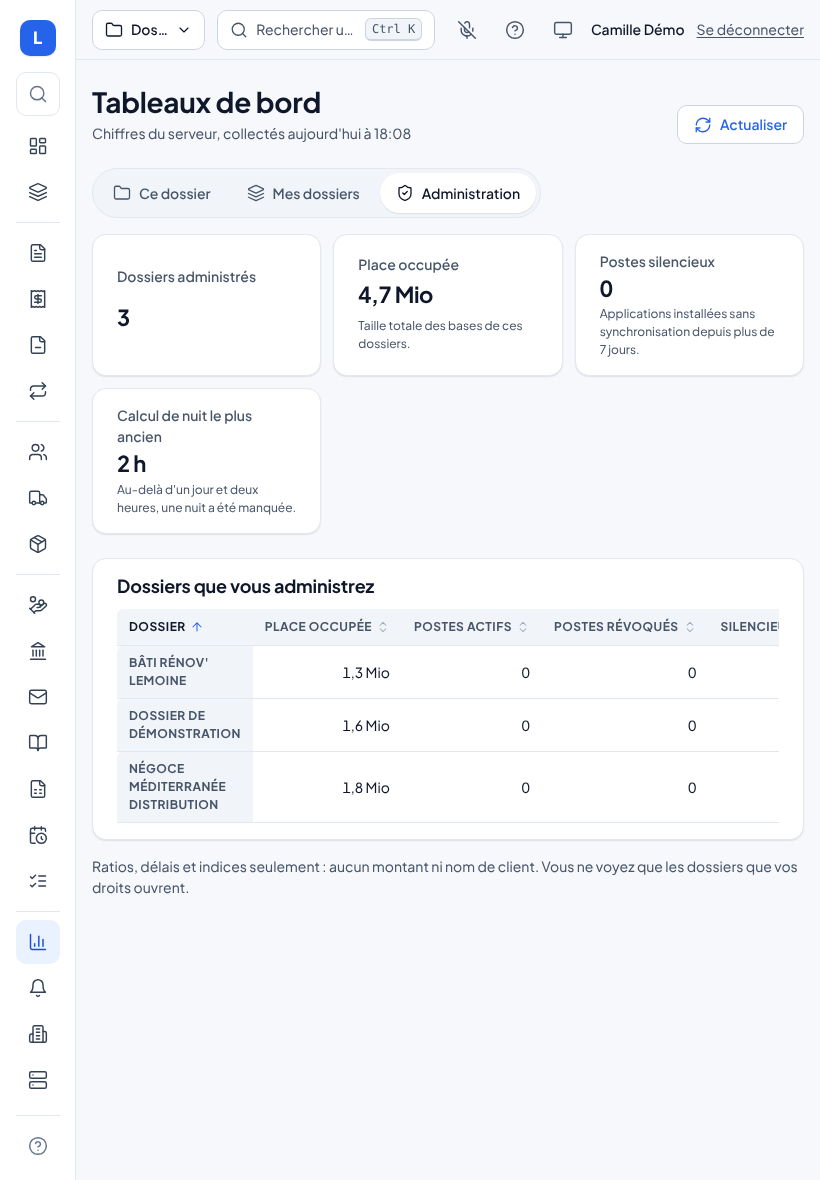
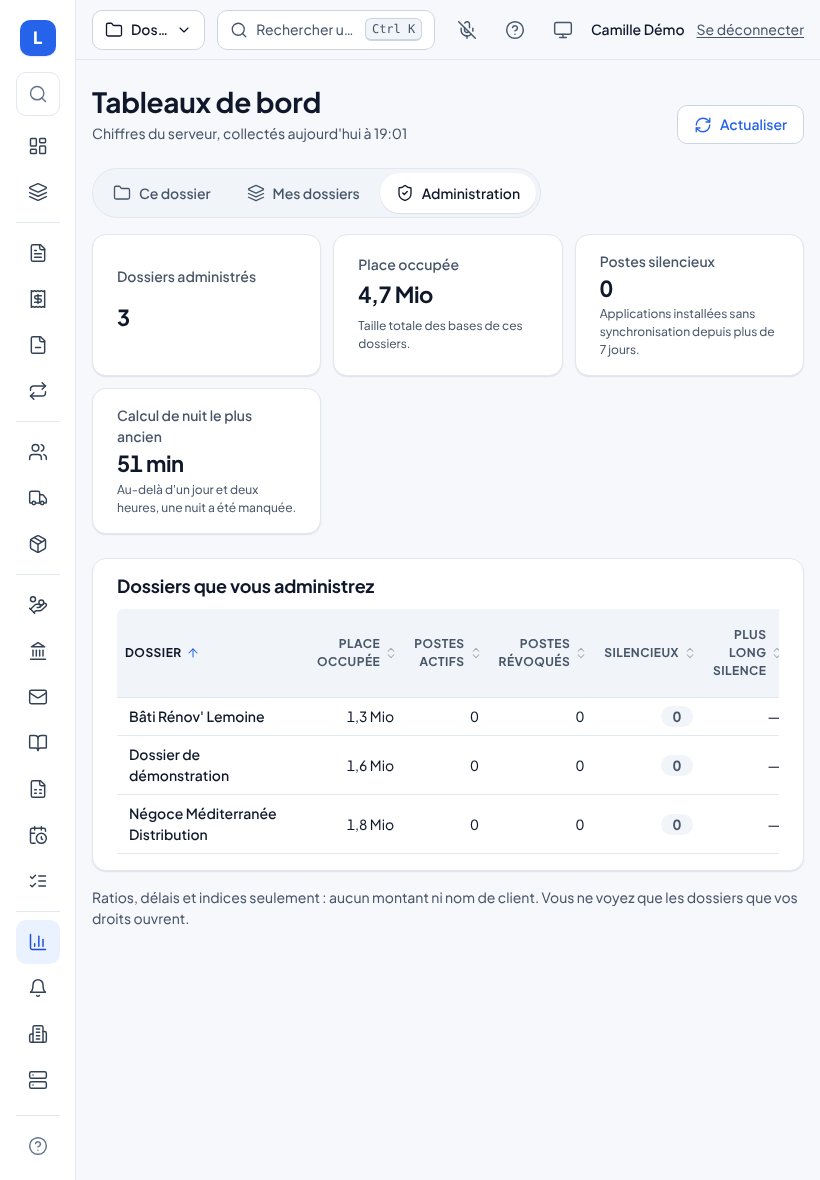
Tableaux de bord : « Voir » visible sur ordinateur, noms de dossier en texte courant
Sur « Mes dossiers » à 1440 px, le tableau dépassait son cadre et coupait « Voir » ;
les noms (en-têtes de ligne) prenaient le style des en-têtes de colonnes. Signalé
par le fil Vue cabinet.

Claude-Session: https://claude.ai/code/session_0195ENUxDgLz9ctjxd3HeSJj

diff --git a/src/Presentation/Lettra.UI.Shared/wwwroot/lettra-pilotage.css b/src/Presentation/Lettra.UI.Shared/wwwroot/lettra-pilotage.css
@@ -29,7 +29,8 @@
 .lt-pilotage-todo a { display: grid; grid-template-columns: auto minmax(0, 1fr) auto; align-items: center; gap: var(--space-3); min-height: var(--hit); padding: var(--space-2); margin: 0 calc(-1 * var(--space-2)); border-radius: var(--radius-sm); color: var(--color-fg); text-decoration: none; overflow-wrap: anywhere; }
 .lt-pilotage-todo a:hover { background: var(--color-neutral-bg); }
 
-.lt-pilotage-table td:first-child { overflow-wrap: anywhere; }
+/* Le nom du dossier est l'en-tête de sa ligne : texte courant, pas le style des en-têtes de colonnes. */
+.lt-pilotage-table tbody th[scope="row"] { background: transparent; color: var(--color-fg); font-size: var(--text-sm); font-weight: var(--weight-medium); letter-spacing: normal; text-transform: none; text-align: left; overflow-wrap: anywhere; }
 .lt-pilotage-filters { flex-wrap: wrap; gap: var(--space-3); }
 .lt-pilotage-tools { display: flex; flex-wrap: wrap; align-items: center; gap: var(--space-2); width: 100%; }
 .lt-pilotage-tools .lettra-input { width: 100%; }
@@ -40,7 +41,10 @@
     .lt-kpis.lt-pilotage-kpis { grid-template-columns: repeat(auto-fit, minmax(12rem, 1fr)); gap: var(--space-3); }
     .lt-pilotage-chart { gap: var(--space-2); height: 12rem; }
     .lt-pilotage-chart .lt-bar-value { display: block; font-size: 0.625rem; }
-    .lt-pilotage-table td:first-child { min-width: 16ch; }
+    /* En-têtes sur deux lignes au besoin : le tableau tient dans son cadre, « Voir » compris. */
+    .lettra-table.lt-pilotage-table th { white-space: normal; }
+    .lettra-table.lt-pilotage-table thead .lt-sort { padding-inline: var(--space-2); }
+    .lt-pilotage-table tbody th[scope="row"] { min-width: 12rem; }
     .lt-pilotage-tools { width: auto; }
     .lt-pilotage-tools .lettra-input { width: min(18rem, 100%); }
     .lt-pilotage-actions { white-space: nowrap; }

diff --git a/docs/tableaux-de-bord.md b/docs/tableaux-de-bord.md
@@ -44,7 +44,7 @@ garde les indicateurs de gestion de ses propres dossiers.
 
 | Taille | Rendu |
 |---|---|
-| Ordinateur (≥ 1200 px) | indicateurs en grille, les deux graphiques côte à côte, tableaux complets avec tri par en-tête |
+| Ordinateur (≥ 1200 px) | indicateurs en grille, les deux graphiques côte à côte, tableaux complets avec tri par en-tête (en-têtes sur deux lignes au besoin, « Voir » toujours visible) |
 | Tablette (768 à 1199 px) | graphiques l'un sous l'autre, tableaux qui défilent de côté dans leur cadre |
 | Téléphone (< 768 px) | deux indicateurs par ligne, onglets qui défilent, une carte par dossier et tri par liste déroulante ; les valeurs au-dessus des barres sont masquées (le titre donne l'unité) |
 
@@ -55,6 +55,8 @@ erreur dans la console ; l'entrée est dans la section « Pilotage » du menu. L
 | Mes dossiers, téléphone | Administration, tablette |
 |---|---|
 | ![](captures/tableaux-de-bord/pilotage-dossiers-telephone.png) | ![](captures/tableaux-de-bord/pilotage-administration-tablette.png) |
+
+![Mes dossiers, sur ordinateur](captures/tableaux-de-bord/pilotage-dossiers-ordinateur.png)
 
 ## Code
 
